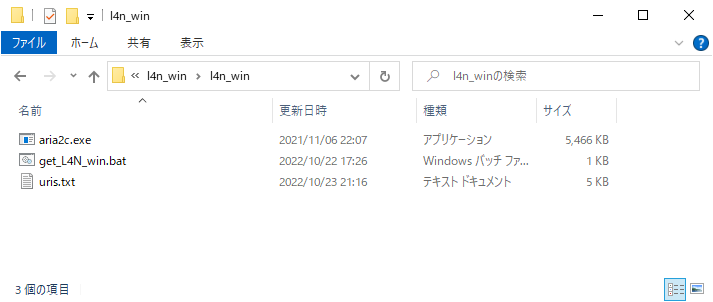
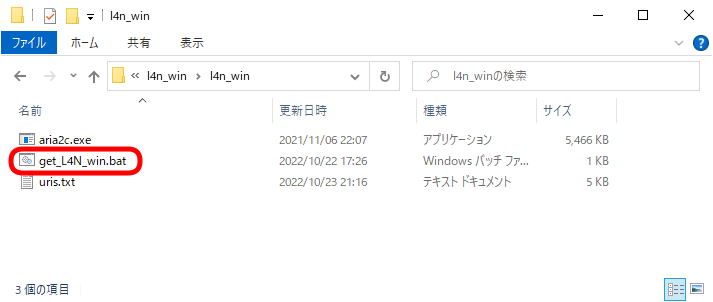
update

Changed region(s): [[0.0, 0.4768, 0.216, 0.596]]

diff --git a/setup_l4n_2022.md b/setup_l4n_2022.md
@@ -48,19 +48,21 @@
 
         - l4n_win フォルダの中にある `get_L4N_win.bat` をダブルクリックします
 
+        ![bat実行](img/win2201.png)
+
         - 「WindowsによってPCが保護されました」という画面が出ますので、「詳細情報」をクリックします
-
-        - 右下に「実行」ボタンが出ますので、実行をクリックします
-
-        - コマンドプロンプトの画面が立ち上がり、ダウンロードが始まります
-
-        - ダウンロードが完了すると、L4N-2204-ABIS-20221026 フォルダの中に L4N-2204-ABIS-20221026.ova というファイルが生成されます
 
         ![PC保護](img/win2202.png)
 
+        - 右下に「実行」ボタンが出ますので、実行をクリックします
+
         ![実行](img/win2203.png)
 
+        - コマンドプロンプトの画面が立ち上がり、ダウンロードが始まります
+
         ![aria2c](img/win2204.png)
+
+        - ダウンロードが完了すると、L4N-2204-ABIS-20221026 フォルダの中に L4N-2204-ABIS-20221026.ova というファイルが生成されます
  
     - macOS (Intel mac)
 
@@ -76,19 +78,18 @@
         bash get_L4N.sh
         ```
 
-
         - そうすると、ターミナルが起動し、ダウンロードがはじまります
 
-        - ダウンロードが完了すると、L4N-2204-ABIS-20221026 フォルダの中に L4N-2204-ABIS-20221026.ova というファイルが生成されます
-
         ![分散ダウンロード](img/mac_get_l4n_5.png)
+
+        - ダウンロードが完了すると、L4N-2204-ABIS-20221026 フォルダの中に L4N-2204-ABIS-20221026.ova というファイルが生成されます
  
 
-- 一括ダウンロード: 十分にネットワークが安定している方は、以下からダウンロードしてください。30GBありますのでダウンロードには2〜3時間かかります。ネットワークが細い方は、上の分割ダウンロードを選択してください
+- 一括ダウンロード: 十分にネットワークが安定している方は、以下からダウンロードしてください。30GBありますのでダウンロードには2〜3時間かかります。ネットワークが細い方は、上の分割ダウンロードを選択してください。分散ダウンロードの方がおそらく速いです
 
-    - [L4N-2204-ABIS-20221026.ovaのダウンロード](http://www.nemotos.net/l4n-abis/L4N-2204-ABIS-20221026.ova){:target="_blank"}
+    - [L4N-2204-ABIS-20221028.ovaのダウンロード](http://www.nemotos.net/l4n-abis/L4N-2204-ABIS-20221028.ova){:target="_blank"}
 
-    - L4N-2204-ABIS-20221026.ovaのmd5値は、`ded1b4e7852083459b7514db11545aad` になります。ファイルサイズの検証にお使いください
+    - L4N-2204-ABIS-20221028.ovaのmd5値は、`9fbc7eabf6ab90c0e78cdadc03c143dd` になります。ファイルサイズの検証にお使いください
 
         - macOSならば、`openssl md5 L4N-2204-ABIS-20221026.ova` で確認できます
         - Windowsならば、PowerShellから、`Get-FileHash -Algorithm md5 L4N-2204-ABIS-20221026.ova` で確認できます
@@ -187,6 +188,9 @@
 
     ![Lin4Neuroの起動2](img/vb7_12.png)
 
+- 時々、以下のエラーが出ることがありますが、問題ありません。「送信しない」をクリックしてください
+
+    ![L4Nエラー](img/l4n_error1.png)
 
 #### 共有フォルダの確認
 
